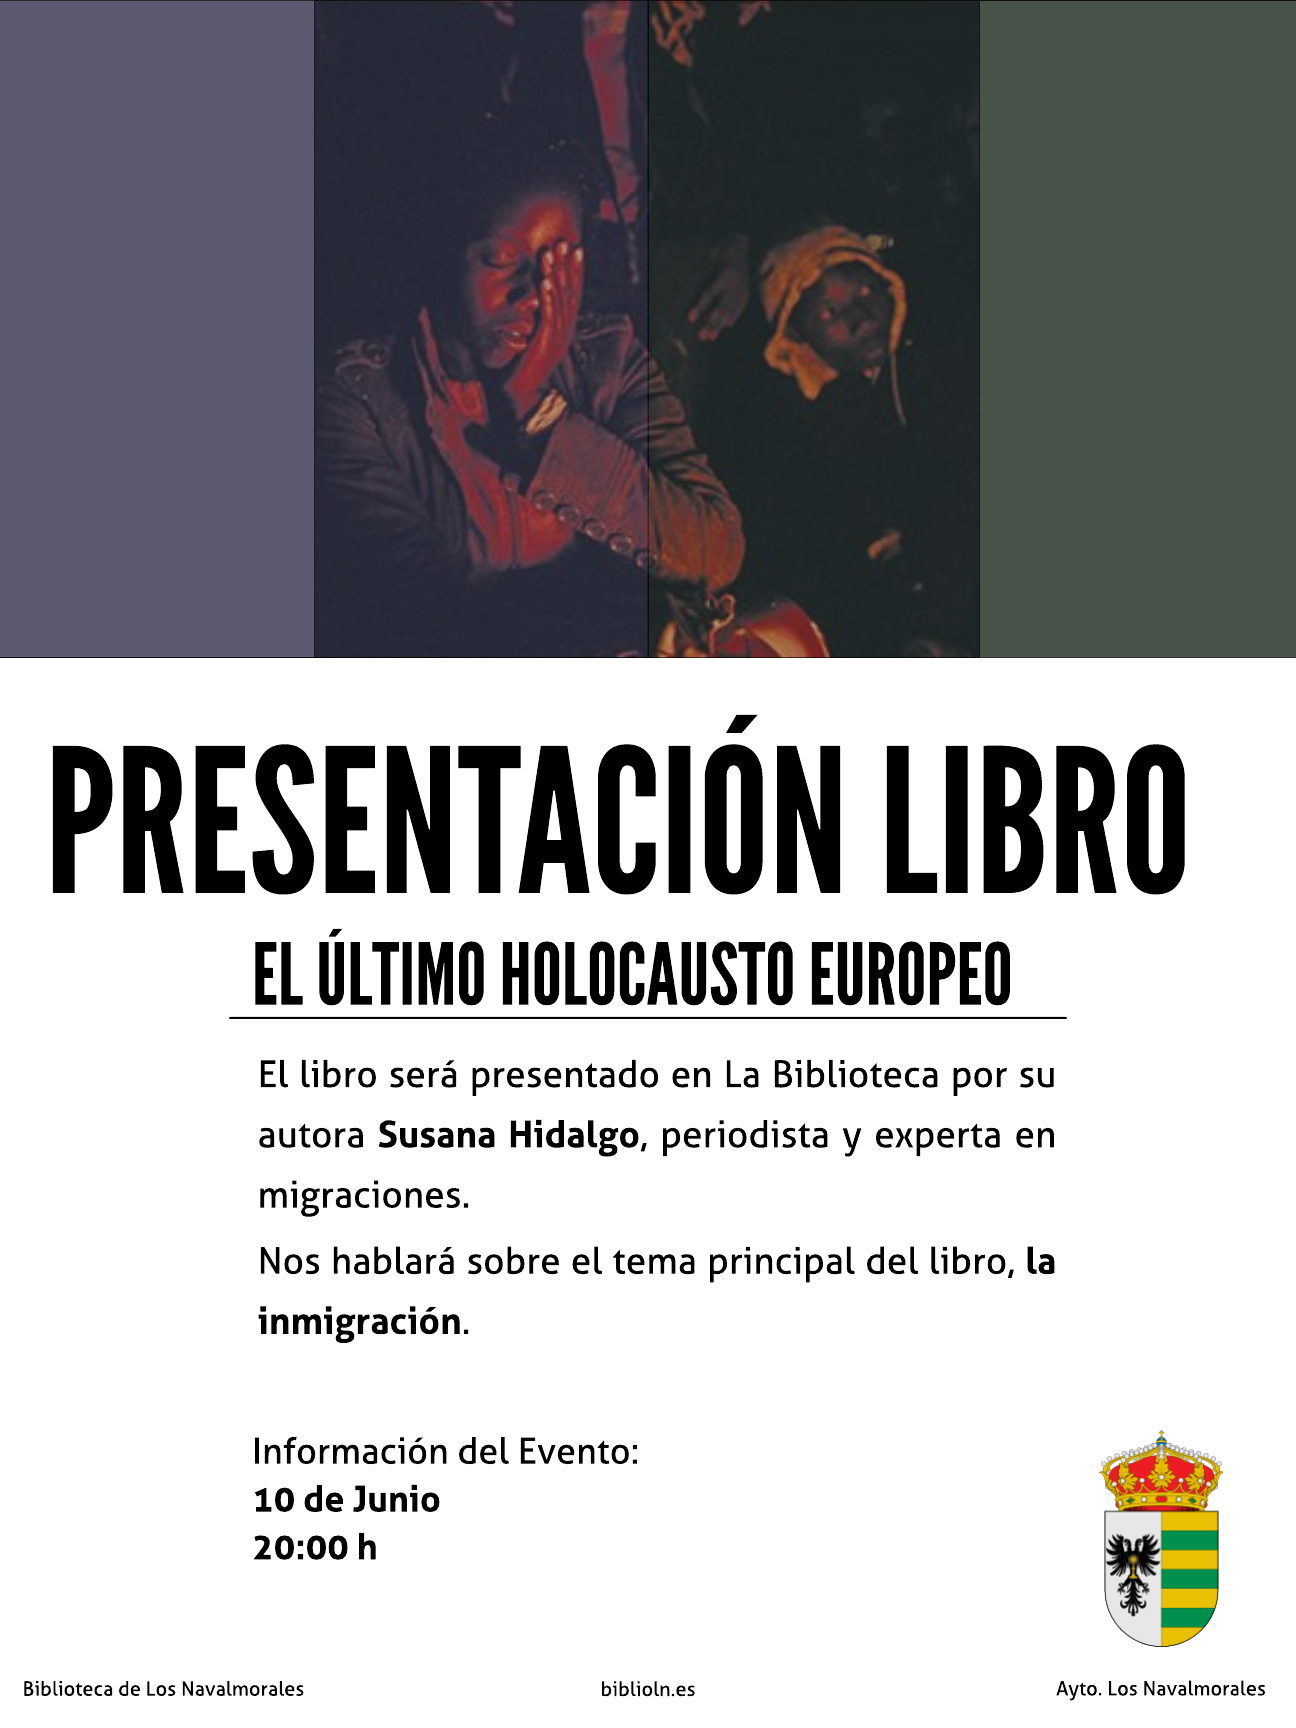
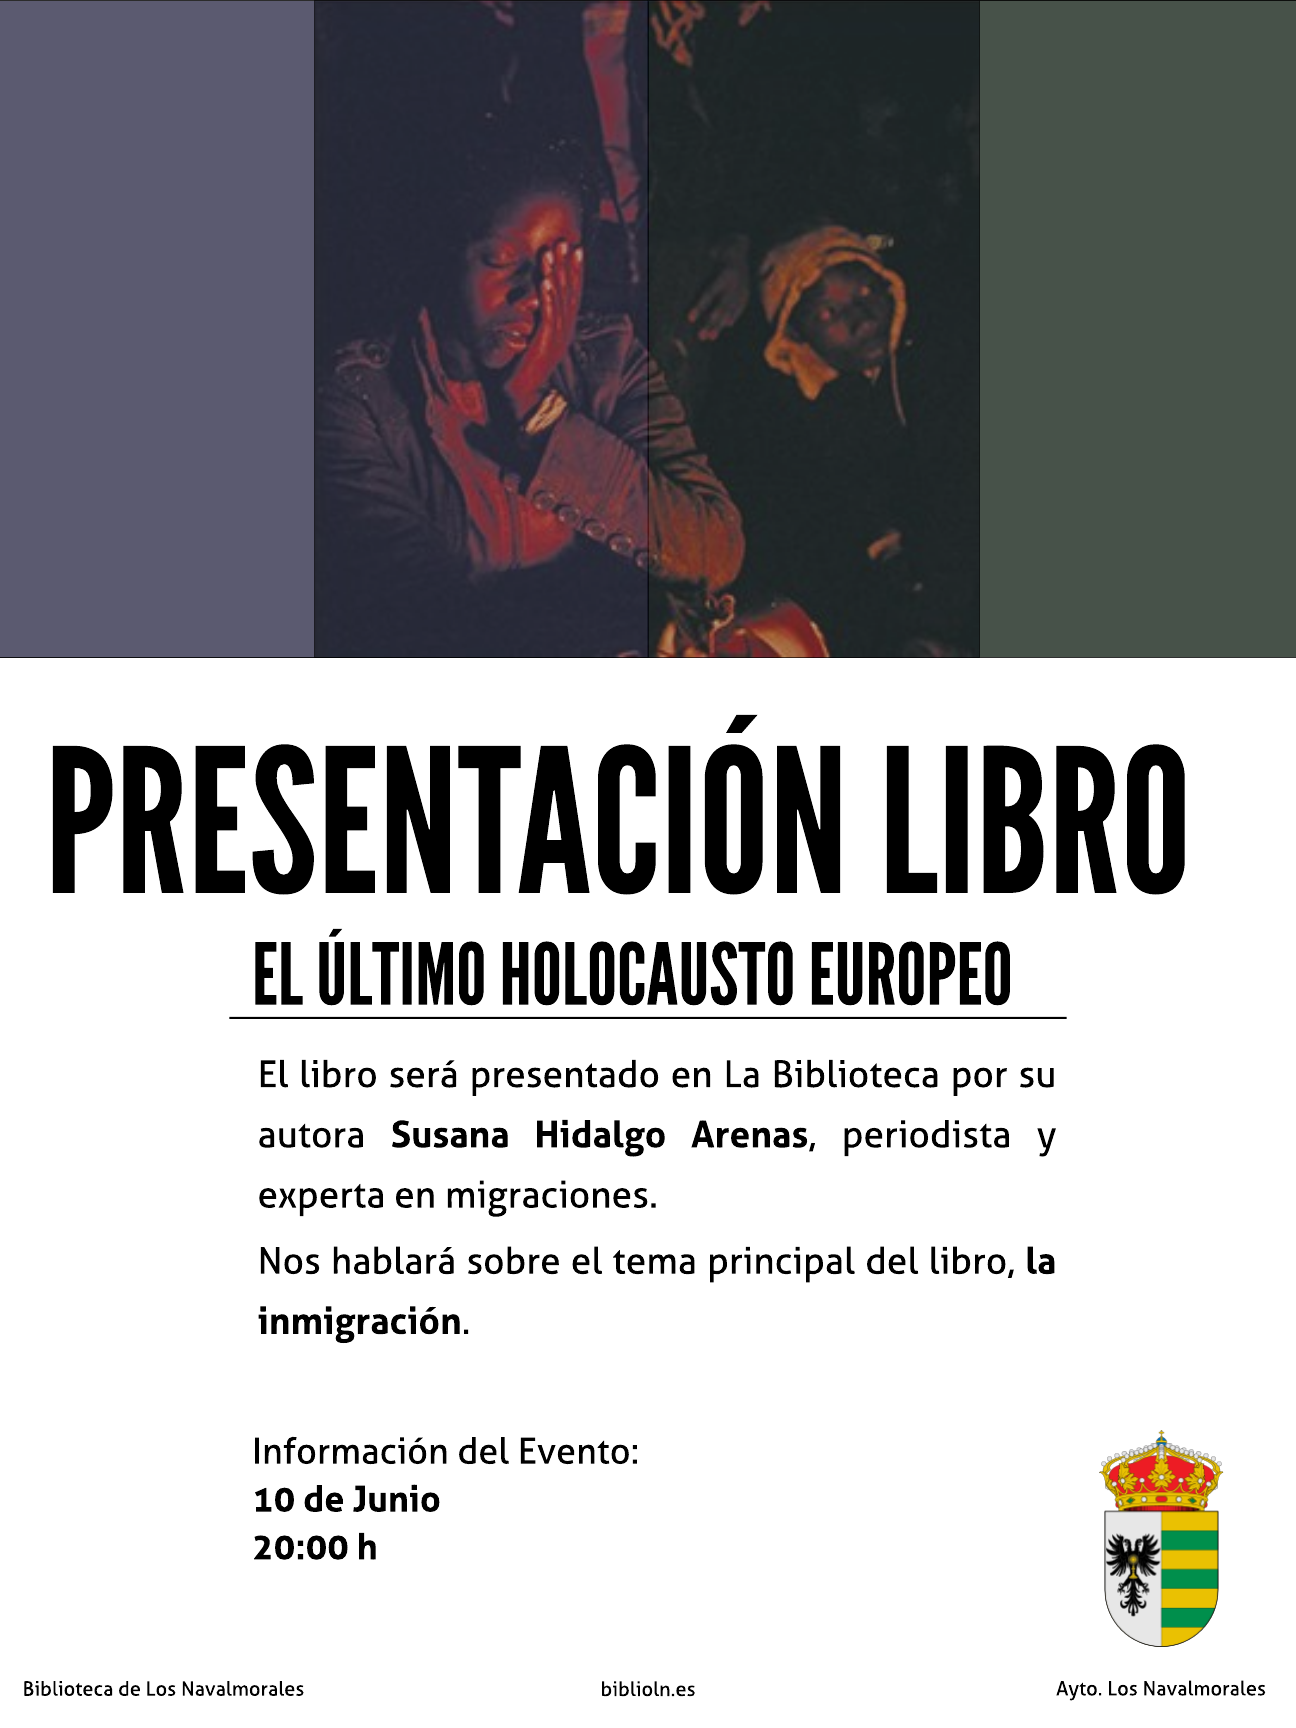
añadiendo apellido

Changed region(s): [[0.216, 0.625, 0.8025, 0.7188]]

diff --git a/posts/2016/05/cuentos-con-chocolate.rst b/posts/2016/05/cuentos-con-chocolate.rst
@@ -4,7 +4,7 @@
 .. tags: Actividades
 .. description: Presentación del libro "El Último Holocausto Europeo"
 
-El libro será presentado en La Biblioteca por su autora **Susana Hidalgo**, periodista y experta en migraciones.
+El libro será presentado en La Biblioteca por su autora **Susana Hidalgo Arenas**, periodista y experta en migraciones.
 
 El evento tendrá lugar el 10 de Junio a las 20:00 h en `La Biblioteca`_.
 
